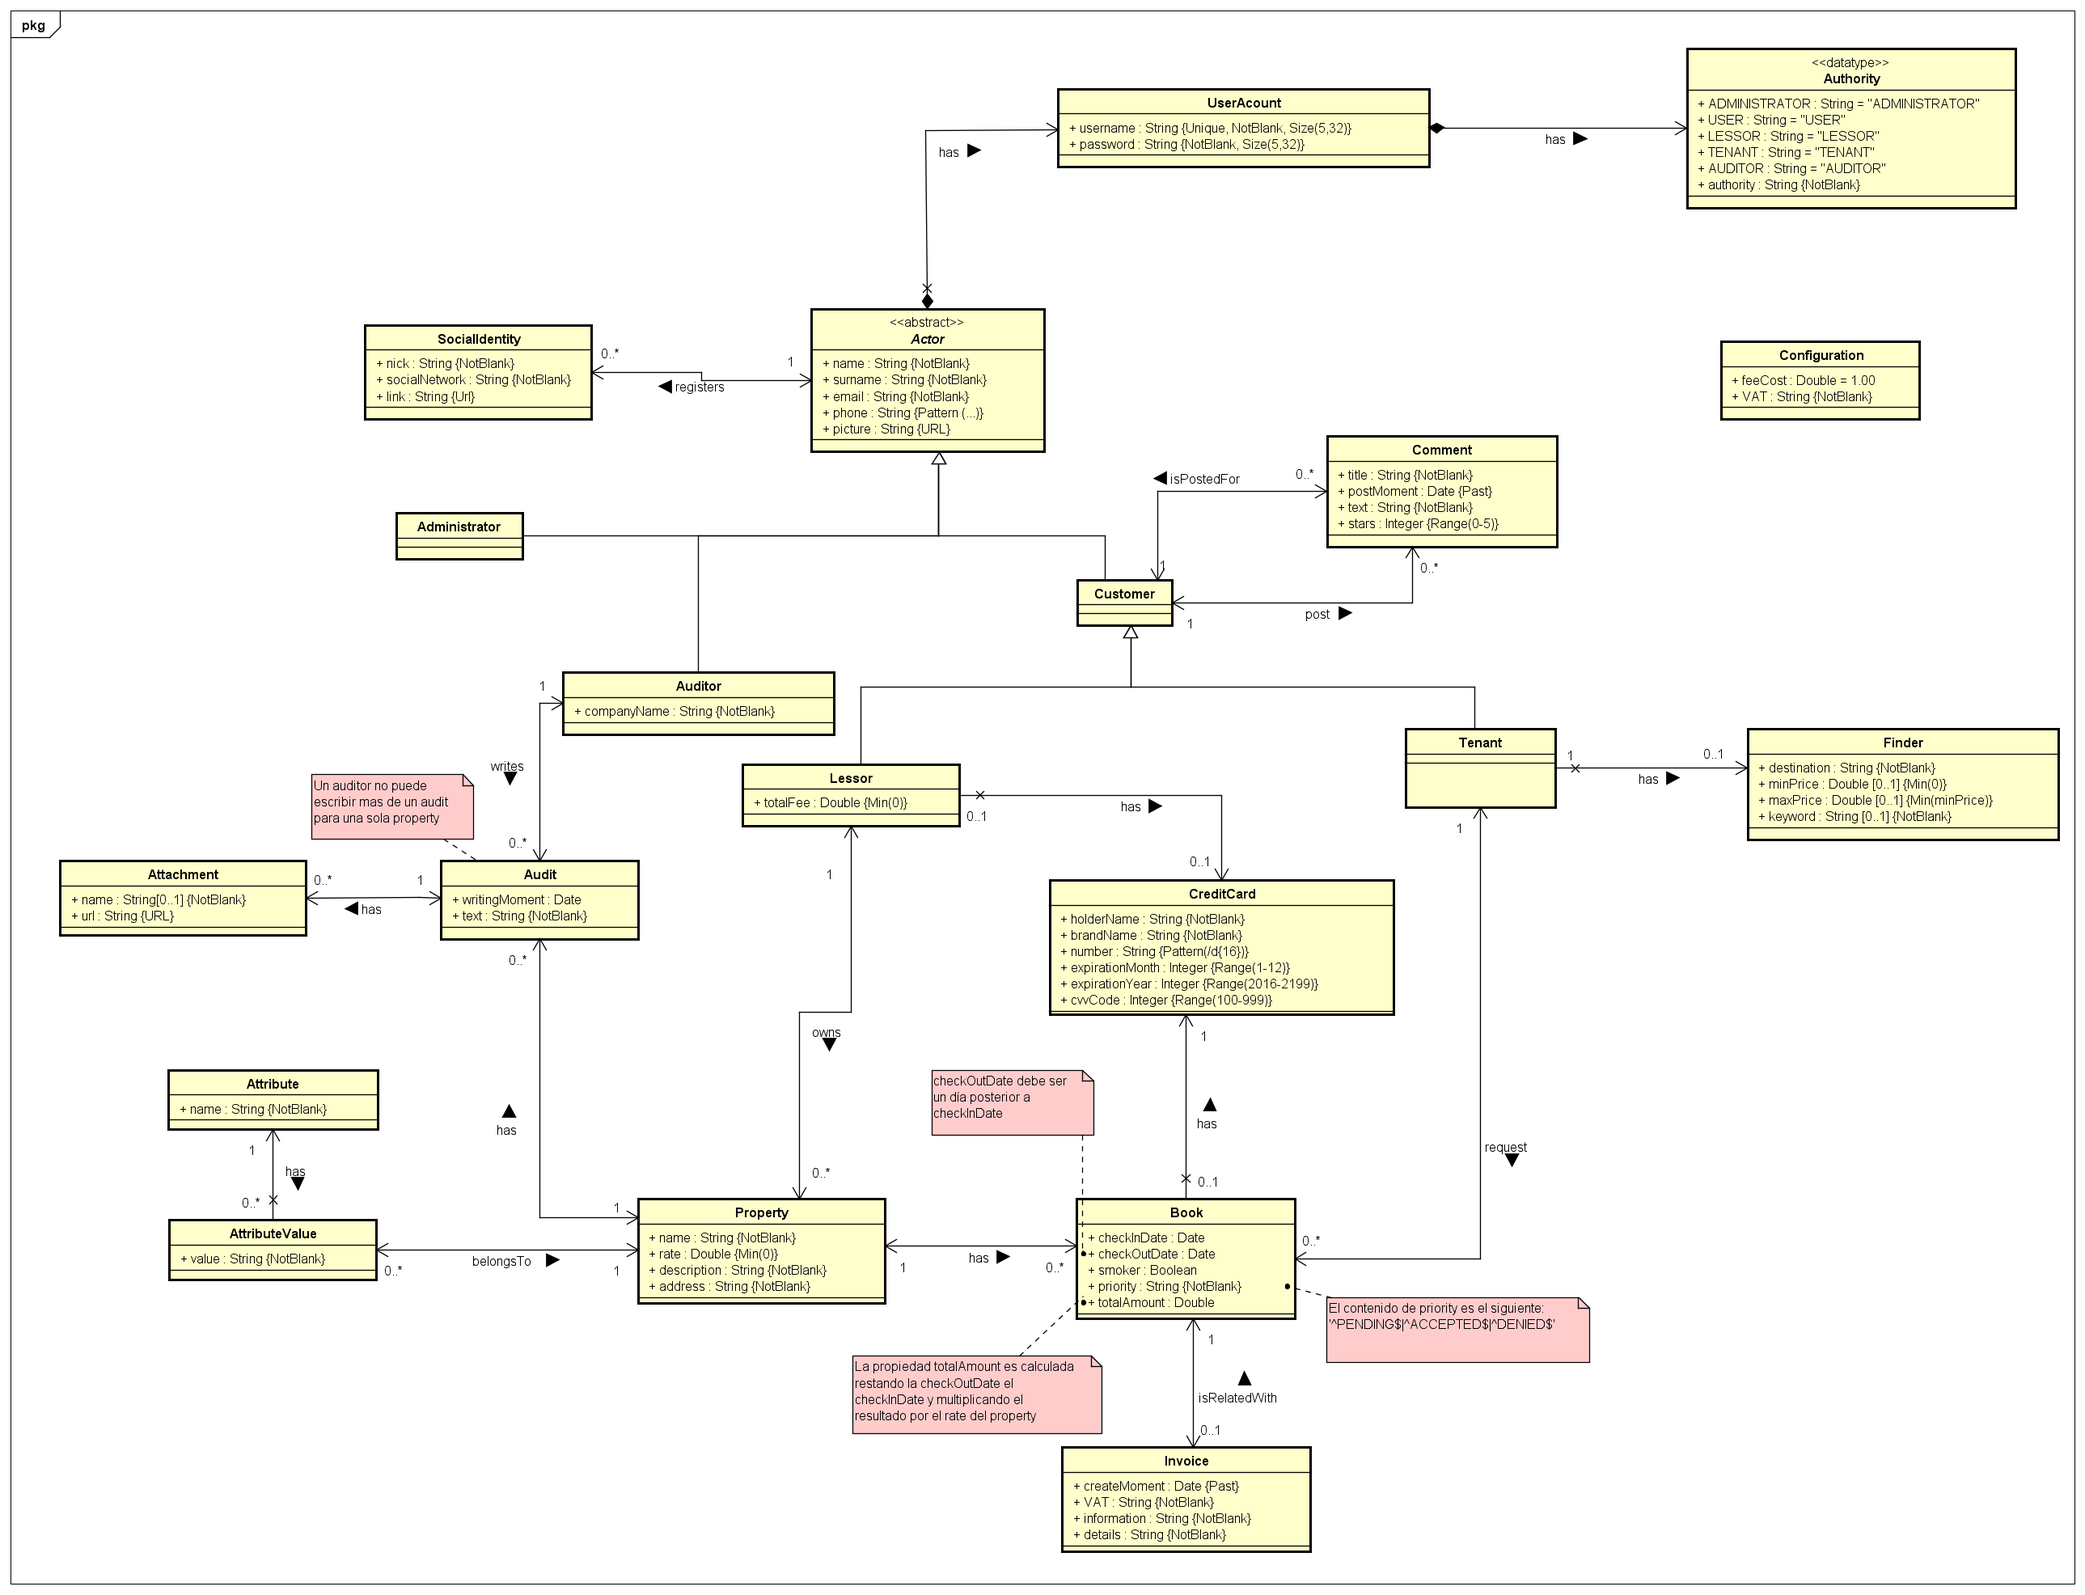
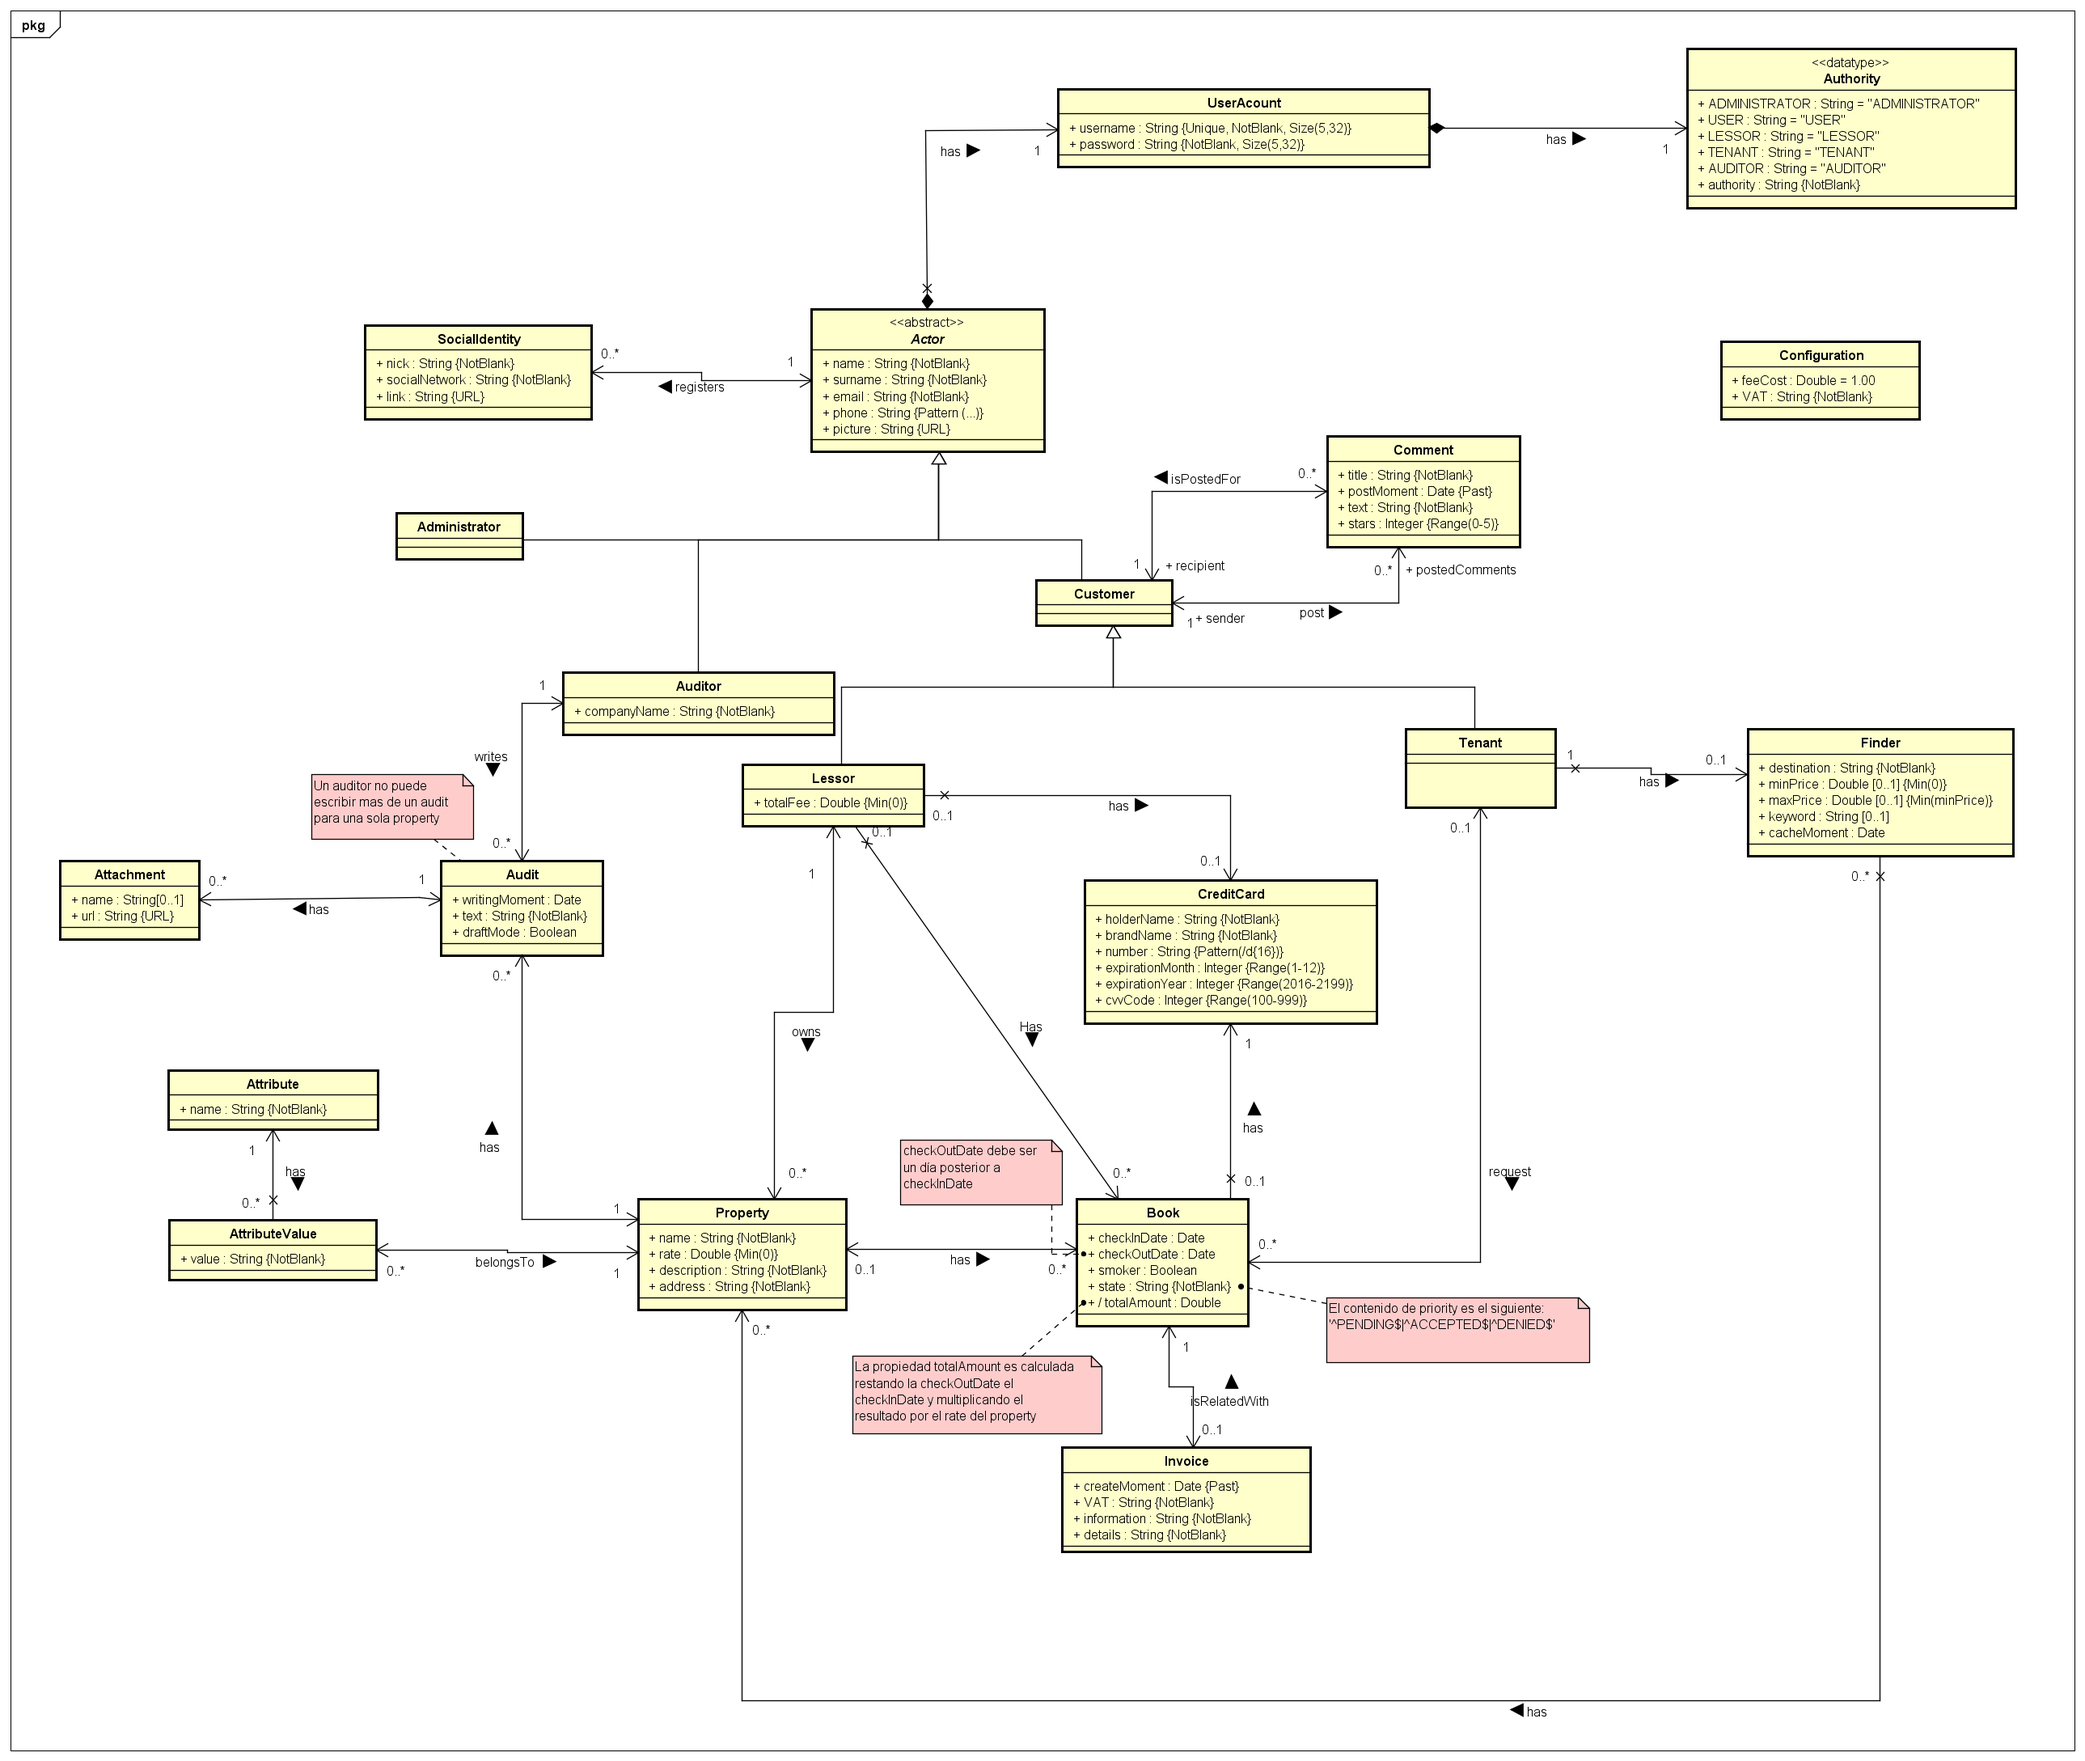
Versión inicial del Populate acabada

diff --git a/Item 4/Acme BnB/src/main/java/domain/Finder.java b/Item 4/Acme BnB/src/main/java/domain/Finder.java
@@ -1,12 +1,22 @@
 
 package domain;
 
+import java.util.Collection;
+import java.util.Date;
+
 import javax.persistence.Access;
 import javax.persistence.AccessType;
 import javax.persistence.Entity;
+import javax.persistence.ManyToMany;
+import javax.persistence.Temporal;
+import javax.persistence.TemporalType;
+import javax.validation.Valid;
 import javax.validation.constraints.Min;
+import javax.validation.constraints.NotNull;
+import javax.validation.constraints.Past;
 
 import org.hibernate.validator.constraints.NotBlank;
+import org.springframework.format.annotation.DateTimeFormat;
 
 @Entity
 @Access(AccessType.PROPERTY)
@@ -16,6 +26,7 @@ public class Finder extends DomainEntity {
 	private Double	minPrice;
 	private Double	maxPrice;
 	private String	keyword;
+	private Date	cacheMoment;
 
 
 	@NotBlank
@@ -54,6 +65,35 @@ public class Finder extends DomainEntity {
 
 	public void setKeyword(String keyword) {
 		this.keyword = keyword;
+	}
+
+	@NotNull
+	@Past
+	@DateTimeFormat(pattern = "dd/MM/yyyy HH:mm")
+	@Temporal(TemporalType.TIMESTAMP)
+	public Date getCacheMoment() {
+		return cacheMoment;
+	}
+
+	public void setCacheMoment(Date cacheMoment) {
+		this.cacheMoment = cacheMoment;
+	}
+
+
+	//Relationships---------------------------
+
+	private Collection<Property>	properties;
+
+
+	@NotNull
+	@Valid
+	@ManyToMany
+	public Collection<Property> getProperties() {
+		return properties;
+	}
+
+	public void setProperties(Collection<Property> properties) {
+		this.properties = properties;
 	}
 
 }

diff --git a/Item 4/Acme BnB/src/main/java/domain/Attribute.java b/Item 4/Acme BnB/src/main/java/domain/Attribute.java
@@ -1,14 +1,9 @@
 
 package domain;
 
-import java.util.Collection;
-
 import javax.persistence.Access;
 import javax.persistence.AccessType;
 import javax.persistence.Entity;
-import javax.persistence.OneToMany;
-import javax.validation.Valid;
-import javax.validation.constraints.NotNull;
 
 import org.hibernate.validator.constraints.NotBlank;
 
@@ -27,22 +22,6 @@ public class Attribute extends DomainEntity {
 
 	public void setName(String name) {
 		this.name = name;
-	}
-
-
-	//Relationships
-	private Collection<AttributeValue>	attributeValues;
-
-
-	@Valid
-	@NotNull
-	@OneToMany(mappedBy = "attribute")
-	public Collection<AttributeValue> getAttributeValues() {
-		return this.attributeValues;
-	}
-
-	public void setAttributeValues(Collection<AttributeValue> attributeValues) {
-		this.attributeValues = attributeValues;
 	}
 
 }

diff --git a/Item 4/Acme BnB/src/main/java/domain/Audit.java b/Item 4/Acme BnB/src/main/java/domain/Audit.java
@@ -14,6 +14,7 @@ import javax.persistence.Temporal;
 import javax.persistence.TemporalType;
 import javax.validation.Valid;
 import javax.validation.constraints.NotNull;
+import javax.validation.constraints.Past;
 
 import org.hibernate.validator.constraints.NotBlank;
 import org.springframework.format.annotation.DateTimeFormat;
@@ -30,6 +31,7 @@ public class Audit extends DomainEntity {
 
 
 	@NotNull
+	@Past
 	@Temporal(TemporalType.TIMESTAMP)
 	@DateTimeFormat(pattern = "dd/MM/yyyy HH:mm")
 	public Date getWritingMoment() {

diff --git a/Item 4/Acme BnB/src/main/java/domain/Book.java b/Item 4/Acme BnB/src/main/java/domain/Book.java
@@ -14,6 +14,7 @@ import javax.validation.Valid;
 import javax.validation.constraints.NotNull;
 import javax.validation.constraints.Pattern;
 
+import org.hibernate.validator.constraints.NotBlank;
 import org.springframework.format.annotation.DateTimeFormat;
 
 @Entity
@@ -60,6 +61,7 @@ public class Book extends DomainEntity {
 		this.smoker = smoker;
 	}
 
+	@NotBlank
 	@Pattern(regexp = "^PENDING$|^ACCEPTED$|^DENIED$")
 	public String getState() {
 		return state;

diff --git a/Item 4/Acme BnB/src/main/java/domain/Lessor.java b/Item 4/Acme BnB/src/main/java/domain/Lessor.java
@@ -61,7 +61,7 @@ public class Lessor extends Customer {
 
 	@NotNull
 	@Valid
-	@OneToMany(mappedBy = "lessor")
+	@OneToMany
 	public Collection<Book> getBooks() {
 		return books;
 	}
@@ -69,6 +69,5 @@ public class Lessor extends Customer {
 	public void setBooks(Collection<Book> books) {
 		this.books = books;
 	}
-	
 
 }
